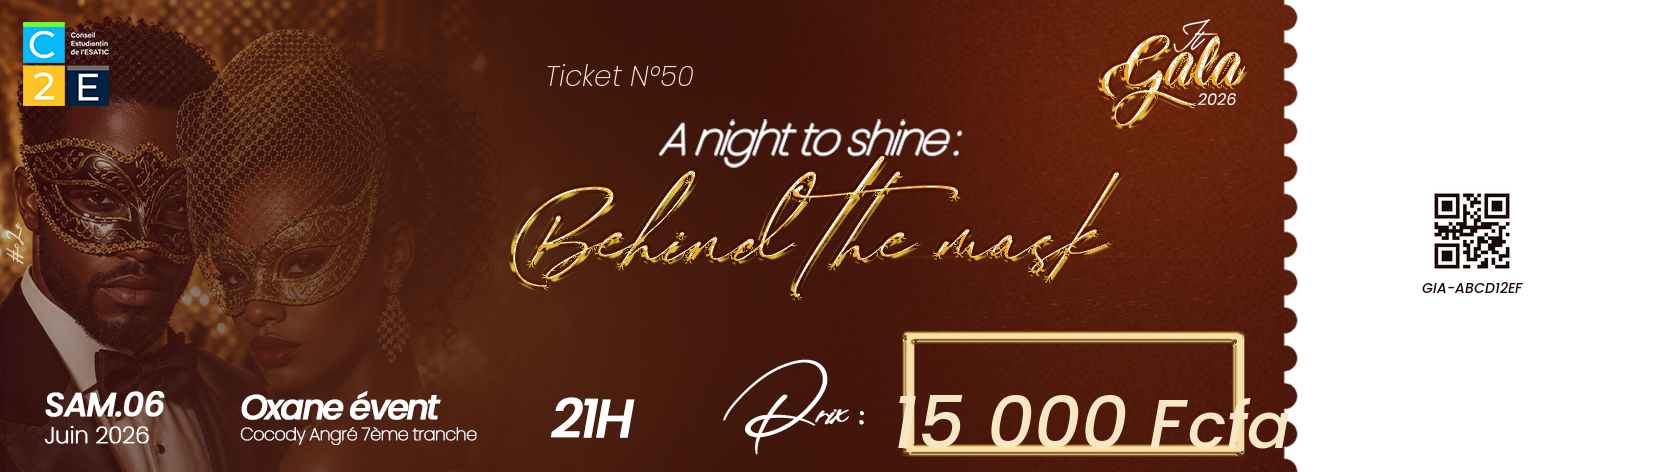
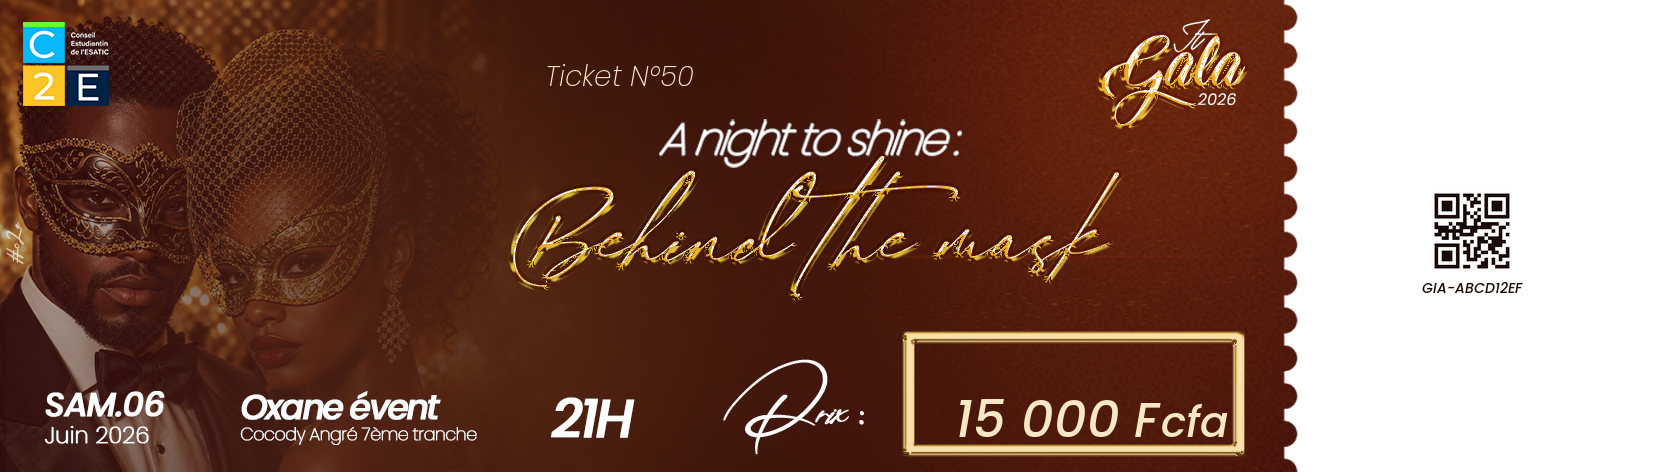
ok

Changed region(s): [[0.5242, 0.8305, 0.8017, 0.9492]]

diff --git a/frontend/src/components/TicketQR.tsx b/frontend/src/components/TicketQR.tsx
@@ -86,13 +86,13 @@ export function TicketQR({ ticket }: { ticket: Ticket; gala?: Gala | null }) {
             outline: DEBUG_OVERLAYS ? "2px solid #3bb6ff" : undefined,
           }}
         >
-          <span style={{ fontSize: "40px", verticalAlign: "baseline" }}>
+          <span style={{ fontSize: "28px", verticalAlign: "baseline" }}>
             {new Intl.NumberFormat("fr-FR").format(Math.round(ticket.price))}
           </span>
-          <span style={{ fontSize: "38px", verticalAlign: "baseline" }}>
+          <span style={{ fontSize: "26px", verticalAlign: "baseline" }}>
             {" F"}
           </span>
-          <span style={{ fontSize: "35px", verticalAlign: "baseline" }}>
+          <span style={{ fontSize: "23px", verticalAlign: "baseline" }}>
             cfa
           </span>
         </span>

diff --git a/backend/app/services/ticket_image.py b/backend/app/services/ticket_image.py
@@ -45,9 +45,9 @@ _QR_DARK = (26, 10, 5)
 # (facteur ~1.83x entre 96 DPI / CSS et le pixel natif du template),
 # donc les valeurs CSS spec sont multipliees par ce facteur.
 _NUMBER_FONT_SIZE = 28   # Poppins ExtraLight Italic — "Ticket N°{id}" (11pt)
-_PRICE_NUMBER_SIZE = 73  # Poppins Medium Italic — chiffres du prix (40px CSS)
-_PRICE_F_SIZE = 70       # Poppins Medium Italic — "F" majuscule    (38px CSS)
-_PRICE_CFA_SIZE = 64     # Poppins Medium Italic — "cfa" minuscules (35px CSS)
+_PRICE_NUMBER_SIZE = 51  # Poppins Medium Italic — chiffres du prix (28px CSS)
+_PRICE_F_SIZE = 48       # Poppins Medium Italic — "F" majuscule    (26px CSS)
+_PRICE_CFA_SIZE = 42     # Poppins Medium Italic — "cfa" minuscules (23px CSS)
 _CODE_FONT_SIZE = 14     # monospace fallback sous le QR
 
 
